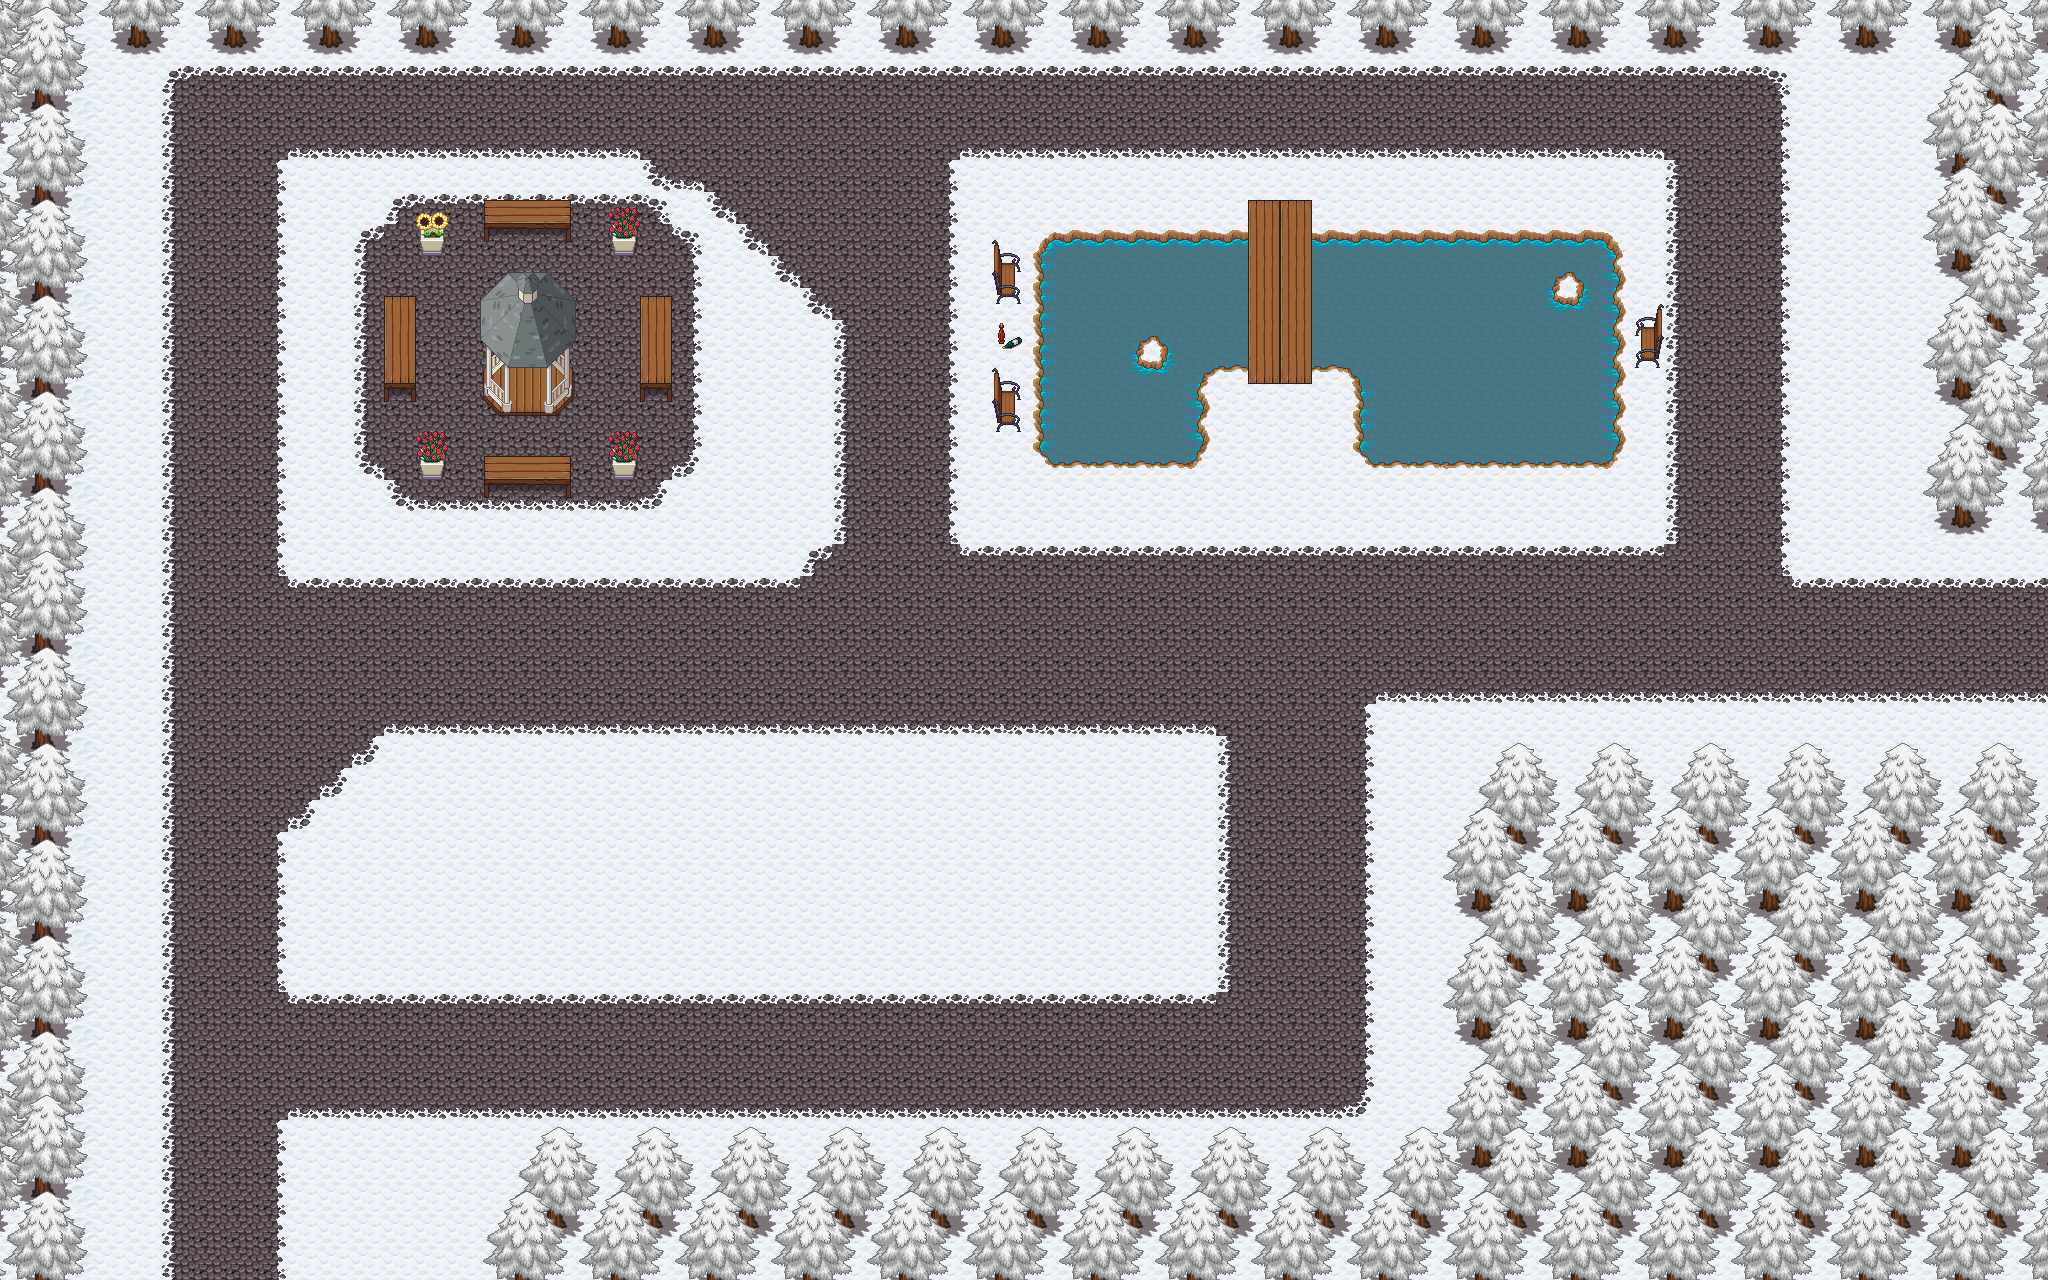
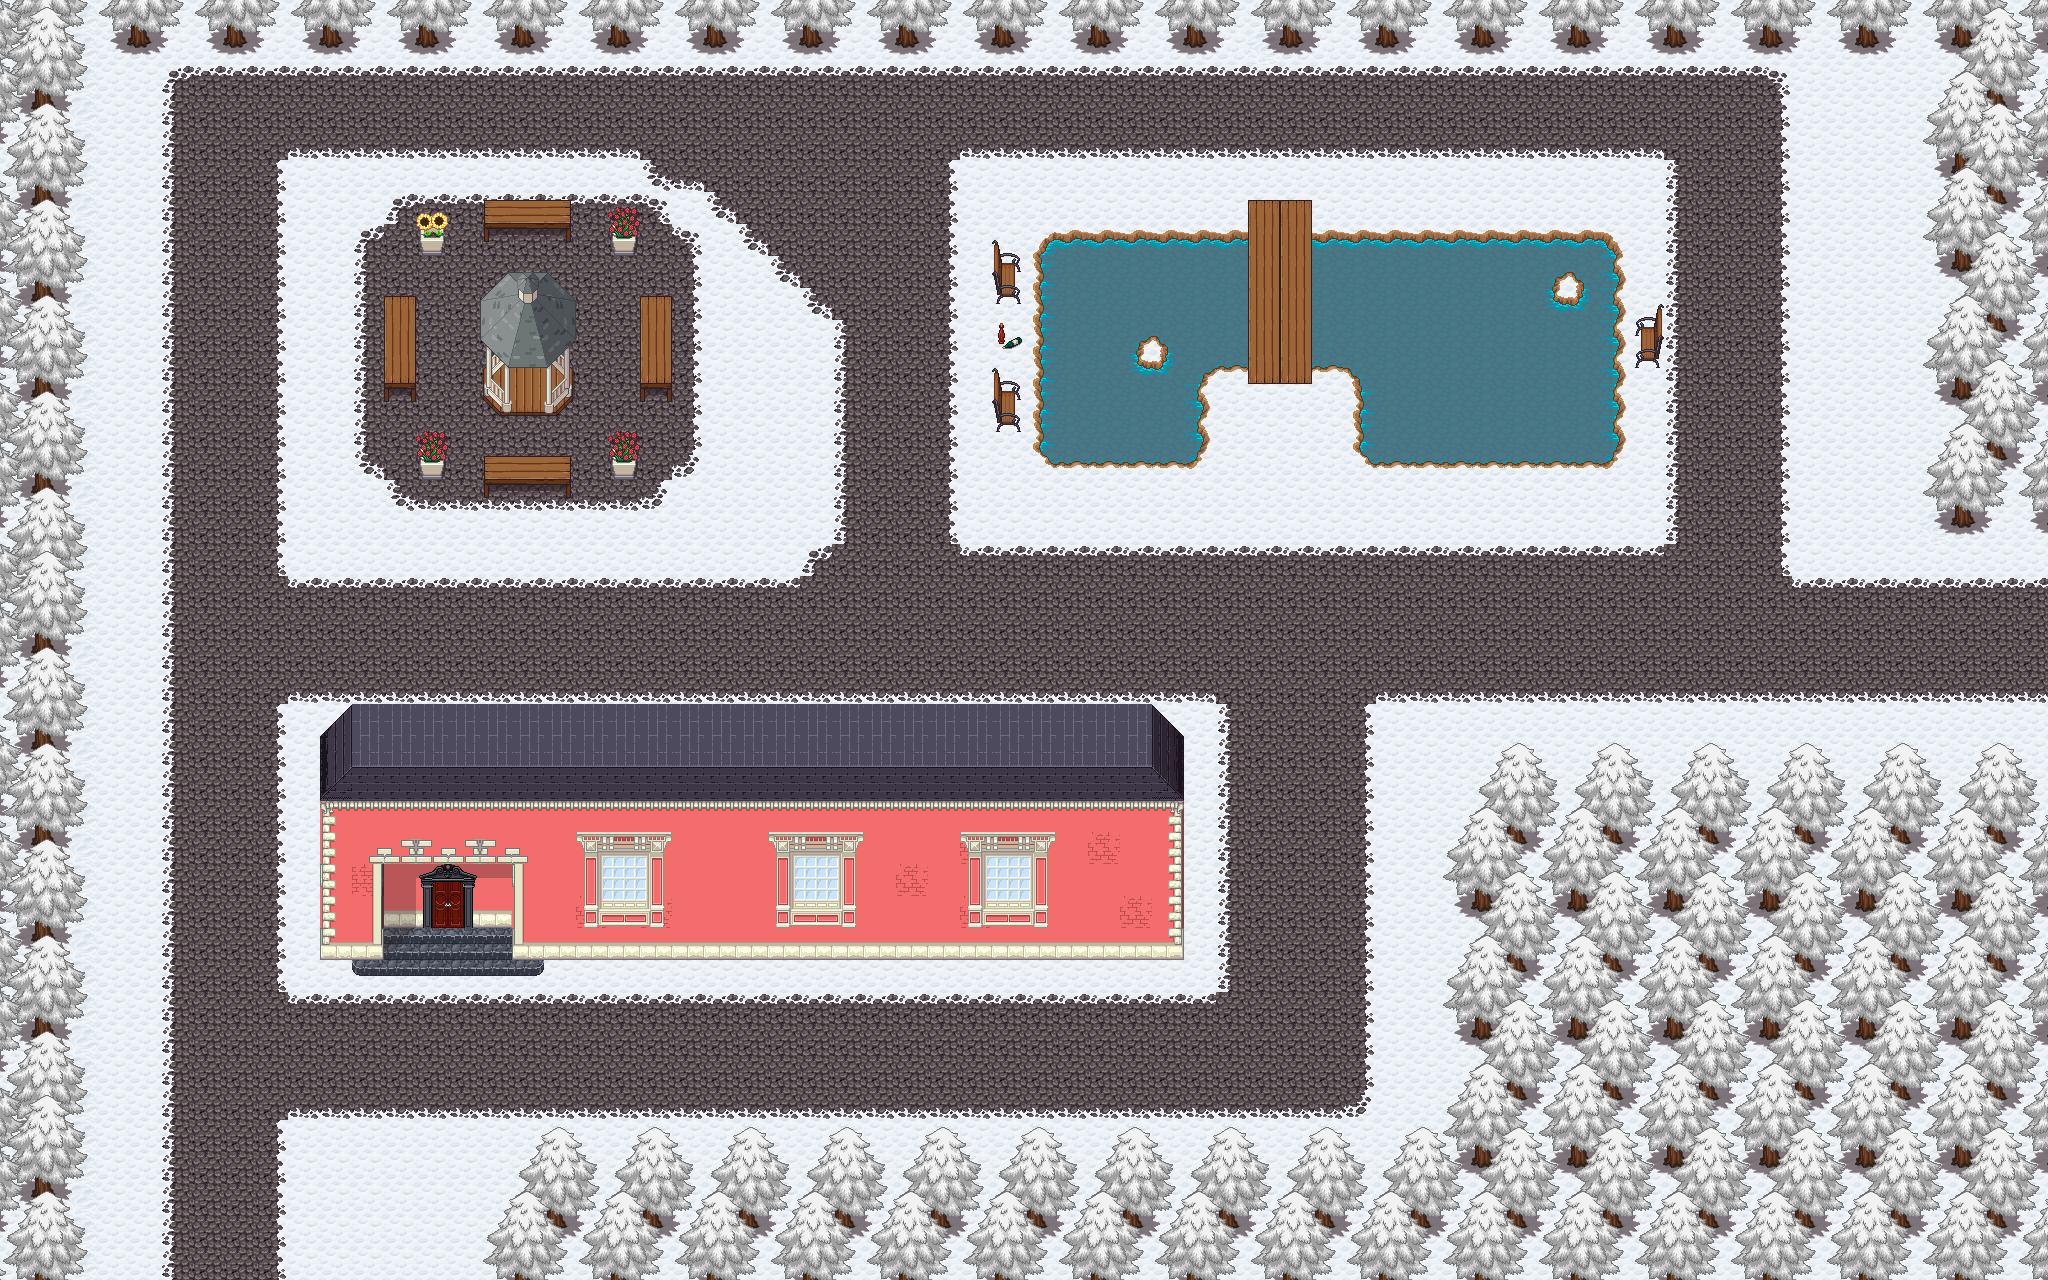
nouvelles maps

Changed region(s): [[0.125, 0.5312, 0.5938, 0.7812]]

diff --git a/script/playerCollisions.js b/script/playerCollisions.js
@@ -59,6 +59,7 @@ function checkAllZoneCollisions(){
         if(player.position.x + offsetX + hitboxWidth > element.x && player.position.x + offsetX < element.x + element.width && player.position.y + offsetY + hitboxHeight >  element.y && player.position.y + offsetY < element.y + element.height)
         {
             switch (currentMap) {
+                // Map de la ville --> Case 0
                 case 0:
                     switch (element.direction) {
                         case "coffee":
@@ -99,7 +100,8 @@ function checkAllZoneCollisions(){
                             break;
                     }
                     break;
-                    
+                
+                // Map de l'intérieur du café --> Case 1
                 case 1:
                     OpenDoor()
                     ctxBackground.clearRect(0,0,1024,640);
@@ -114,7 +116,8 @@ function checkAllZoneCollisions(){
                     offsetY = 6;
                     rescalePlayer();
                     break;
-
+                
+                //  Map du parc-right --> Case 2
                 case 2:
                     switch (element.direction) {
                         case "city":
@@ -137,7 +140,8 @@ function checkAllZoneCollisions(){
                             break;
                     }
                     break;
-
+                
+                //  Map du parc-left --> Case 3
                 case 3:
                     switch (element.direction) {
                         case "city":
@@ -160,7 +164,8 @@ function checkAllZoneCollisions(){
                             break;
                     }
                     break;
-
+                
+                //  Map du parc  --> Case 4
                 case 4:
                     switch (element.direction) {
                         case "parc-right":

diff --git a/game.html b/game.html
@@ -76,6 +76,8 @@
             <img id="coffee-shop-img" src="/maps/cafe_interieur.png" alt="" style="visibility:hidden; position:absolute;">
             <img id="city-map-left-img" src="/maps/city-parc-left.png" alt="" style="visibility:hidden; position:absolute;">
             <img id="parc-img" src="/maps/parc.png" alt="" style="visibility:hidden; position:absolute;">
+            <img id="indoor-library-first-map" src="/maps/indoorlibrary-first-map.png" alt="" style="visibility:hidden; position:absolute;">
+            <img id="indoor-library-second-map" src="/maps/indoorlibrary-second-map.png" alt="" style="visibility:hidden; position:absolute;">
             <canvas id="canvas-background" width="1024" height="640" style="position:absolute; background-color: aliceblue;"></canvas>
     
             <canvas id="canvas" width="1024" height="640" style="position:absolute;"></canvas>

diff --git a/script/maps.js b/script/maps.js
@@ -7,21 +7,9 @@ let cityMapRight = document.querySelector('#city-map-right-img');
 let cityMapLeft = document.querySelector('#city-map-left-img');
 let coffeeShop = document.querySelector('#coffee-shop-img');
 let parc = document.querySelector('#parc-img');
-
+let indoorLibraryFirstMap = document.querySelector('#indoor-library-first-map');
+let indoorLibrarySecondMap = document.querySelector('#indoor-library-second-map');
 // Dessin de l'image de background
 ctxBackground.drawImage(cityMapImg, 0, 0,1024,640);
 
 let currentMap = 0;
-
-
-
-
-
-// Coordonnées du carré bleu porte entre deux zones
-// let squareColliderX  = 1005
-// let squareColliderY  = 142
-// let squareColliderWidth  = 19
-// let squareColliderHeight  = 50
-
-// ctx.fillStyle = "rgba(0,0,255,0.3)";
-// ctx.fillRect(squareColliderX, squareColliderY, squareColliderWidth, squareColliderHeight)

diff --git a/script/initZoneCollisions.js b/script/initZoneCollisions.js
@@ -36,6 +36,10 @@ let parcMapZoneObjectsCollisions = [
 
     // zone vers parc left
     {x:85, y:637, width: 55, height:16, direction:"parc-left"},
+
+    // Porte entrée bibliothèque
+    {x:85, y:637, width: 55, height:16, direction:"parc-left"},
+    // 
 ];
 
 let mapsZoneObjectsCollisions = [cityMapZoneObjectsCollisions, coffeeMapZoneObjectsCollisions, parcRightMapZoneObjectsCollisions, parcLeftMapZoneObjectsCollisions, parcMapZoneObjectsCollisions];
